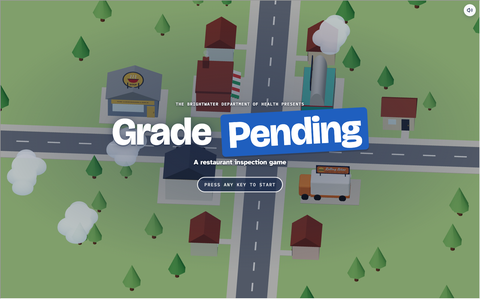
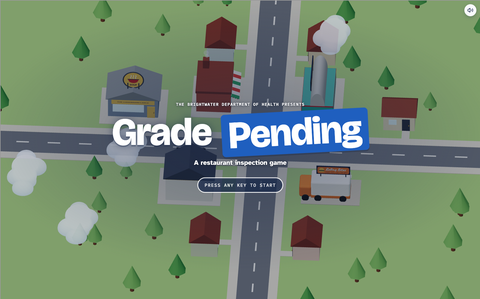
Case studies: trim capture chrome, reframe the title shot, drop a duplicate
The two Grade Pending captures carried the XCL wrapper's border: a 2px
grey strip on the right and 6px of grey and white along the bottom. Both
trimmed, so the frames are now game only.

Recaptured the Pathogen Patrol title screen at a shorter viewport. The
sign now sits on the hills instead of floating above a large empty sky.

Dropped the windowed Amazon SDE prep screen, since the full-page capture
of the same page is already in the gallery.

Gallery blocks are regenerated from the manifest now rather than
hand-inserted, so image dimensions cannot drift from the files on disk.
Verified: 34 images, none missing from the build, no orphans.

diff --git a/src/lib/caseStudies.ts b/src/lib/caseStudies.ts
@@ -26,15 +26,15 @@ export const caseStudies: CaseStudy[] = [
           src: "/images/case-studies/gallery/grade-pending/01-title-screen.png",
           thumb: "/images/case-studies/gallery/grade-pending/01-title-screen-thumb.png",
           alt: "The Grade Pending title screen over the town of Brightwater",
-          width: 1600, height: 1000,
-          thumbWidth: 480, thumbHeight: 300,
+          width: 1598, height: 994,
+          thumbWidth: 480, thumbHeight: 299,
         },
         {
           src: "/images/case-studies/gallery/grade-pending/02-main-menu.png",
           thumb: "/images/case-studies/gallery/grade-pending/02-main-menu-thumb.png",
           alt: "The main menu, showing the town and how many inspectors have played",
-          width: 1600, height: 1000,
-          thumbWidth: 480, thumbHeight: 300,
+          width: 1598, height: 994,
+          thumbWidth: 480, thumbHeight: 299,
         },
         {
           src: "/images/case-studies/gallery/grade-pending/03-inspecting-the-diner.png",
@@ -212,13 +212,6 @@ export const caseStudies: CaseStudy[] = [
           thumbWidth: 480, thumbHeight: 2109,
         },
         {
-          src: "/images/case-studies/gallery/amazon-candidate-prep/online-assessment-prep-for-sde-roles-03-04-2026-08-00-pm.png",
-          thumb: "/images/case-studies/gallery/amazon-candidate-prep/online-assessment-prep-for-sde-roles-03-04-2026-08-00-pm-thumb.png",
-          alt: "Online assessment prep for SDE roles",
-          width: 1600, height: 919,
-          thumbWidth: 480, thumbHeight: 276,
-        },
-        {
           src: "/images/case-studies/gallery/amazon-candidate-prep/practice-your-knowledge-amazon-sde-online-assessment-oa-and-interview-pr.png",
           thumb: "/images/case-studies/gallery/amazon-candidate-prep/practice-your-knowledge-amazon-sde-online-assessment-oa-and-interview-pr-thumb.png",
           alt: "The practice your knowledge page",
@@ -358,8 +351,8 @@ export const caseStudies: CaseStudy[] = [
           src: "/images/case-studies/gallery/pathogen-patrol/01-title-screen.png",
           thumb: "/images/case-studies/gallery/pathogen-patrol/01-title-screen-thumb.png",
           alt: "The Pathogen Patrol title screen at Knotty Pines Senior Community",
-          width: 1600, height: 1000,
-          thumbWidth: 480, thumbHeight: 300,
+          width: 1600, height: 720,
+          thumbWidth: 480, thumbHeight: 216,
         },
         {
           src: "/images/case-studies/gallery/pathogen-patrol/02-staff-announcement.png",
